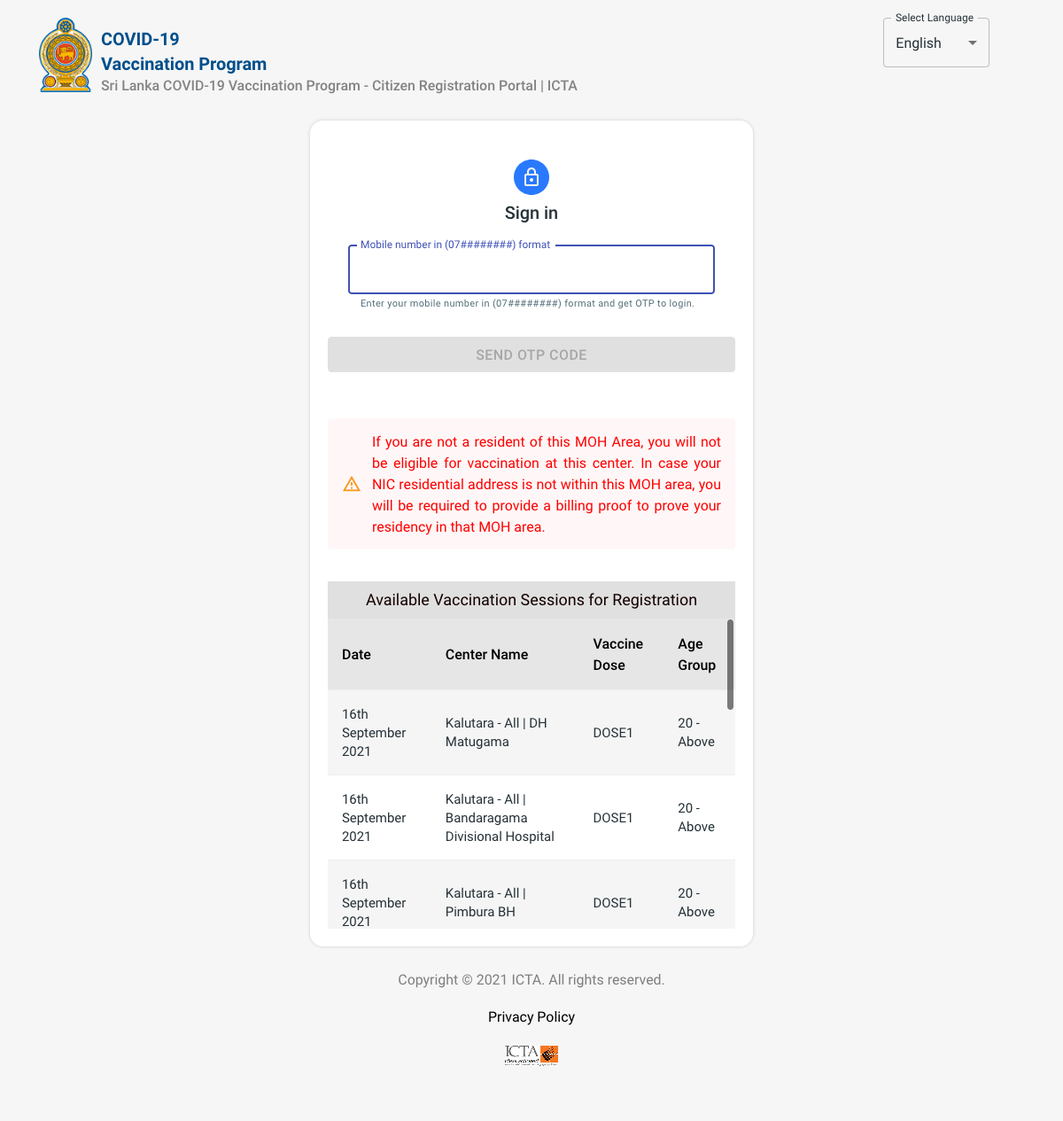
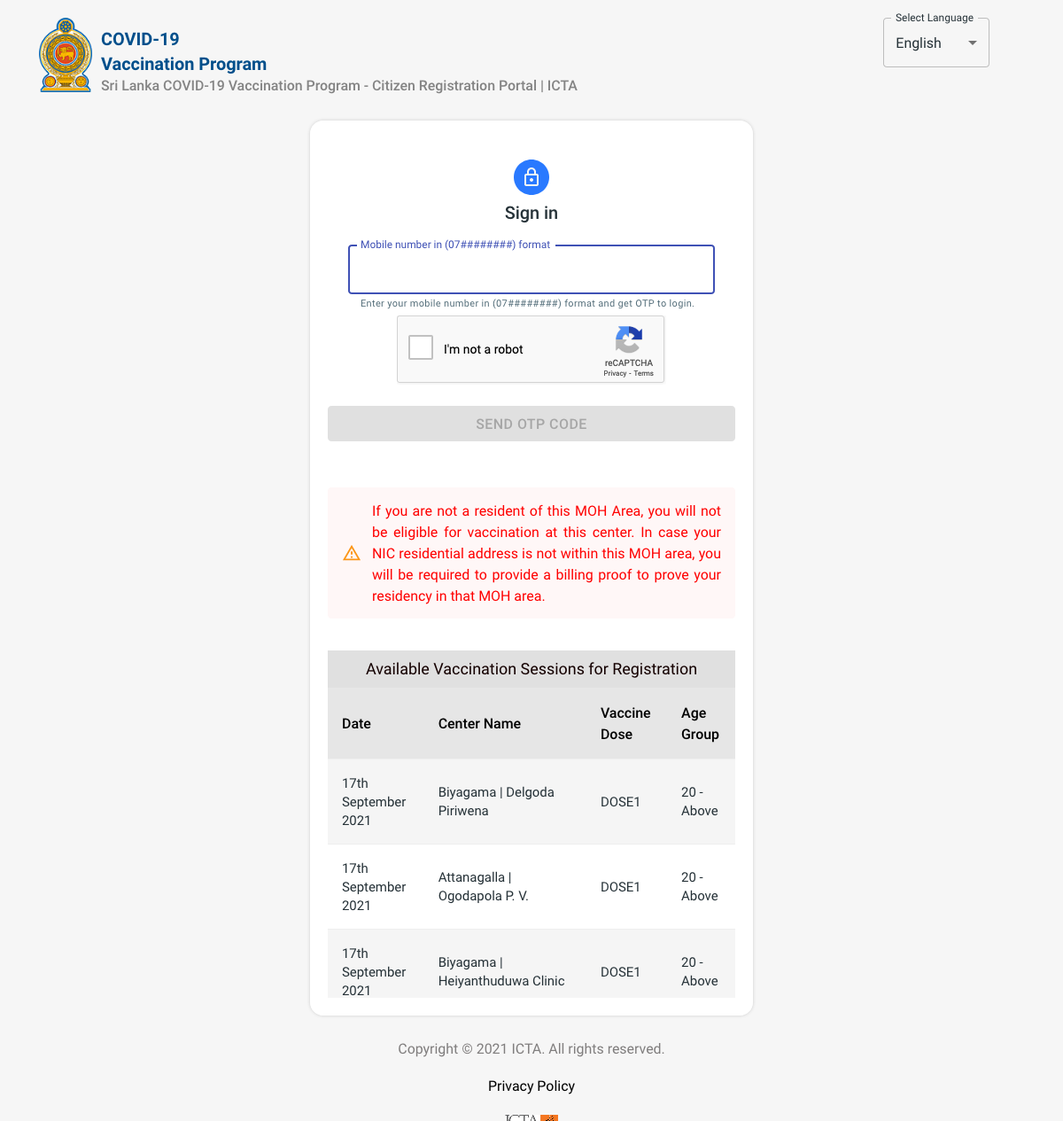
Added local_workflows/download-lk-vax-center.sh output

diff --git a/covid19_icta.latest.html b/covid19_icta.latest.html
@@ -2138,7 +2138,7 @@ body::backdrop {
 .jss39 {
   font-size: 15px;
 }
-</style></head><body><noscript>You need to enable JavaScript to run this app.</noscript><div id="root"><div><div class="jss1"><header class="MuiPaper-root MuiAppBar-root MuiAppBar-positionFixed MuiAppBar-colorPrimary jss2 mui-fixed MuiPaper-elevation4"><div class="MuiToolbar-root MuiToolbar-regular MuiToolbar-gutters"><div class="MuiGrid-root MuiGrid-container MuiGrid-spacing-xs-4 MuiGrid-justify-xs-center"><div class="MuiGrid-root MuiGrid-item MuiGrid-grid-xs-12 MuiGrid-grid-sm-10 MuiGrid-grid-md-10 MuiGrid-grid-lg-10"><div class="jss5"><a href="/registration-list"><img class="jss4" alt="Logo" src="/images/logos/moh-logo-2.png"></a><div class="jss7"><h3 class="MuiTypography-root jss6 MuiTypography-h3">COVID-19</h3><h3 class="MuiTypography-root jss6 MuiTypography-h3">Vaccination Program</h3><h2 class="MuiTypography-root jss8 MuiTypography-h5" inline="true">Sri Lanka COVID-19 Vaccination Program - Citizen Registration Portal | ICTA</h2></div><br></div></div><div class="MuiGrid-root MuiGrid-item MuiGrid-grid-xs-12 MuiGrid-grid-sm-2 MuiGrid-grid-md-2 MuiGrid-grid-lg-2"><div class="jss10"><div><div class="MuiFormControl-root"><label class="MuiFormLabel-root MuiInputLabel-root MuiInputLabel-formControl MuiInputLabel-animated MuiInputLabel-shrink MuiInputLabel-outlined MuiFormLabel-filled" data-shrink="true" id="demo-simple-select-outlined-label">Select Language</label><div class="MuiInputBase-root MuiOutlinedInput-root jss9 MuiInputBase-formControl"><div class="MuiSelect-root MuiSelect-select MuiSelect-selectMenu MuiSelect-outlined MuiInputBase-input MuiOutlinedInput-input" tabindex="0" role="button" aria-haspopup="listbox" aria-labelledby="demo-simple-select-outlined-label demo-simple-select-outlined" id="demo-simple-select-outlined">English</div><input aria-hidden="true" tabindex="-1" class="MuiSelect-nativeInput" value="english"><svg class="MuiSvgIcon-root MuiSelect-icon MuiSelect-iconOutlined" focusable="false" viewBox="0 0 24 24" aria-hidden="true"><path d="M7 10l5 5 5-5z"></path></svg><fieldset aria-hidden="true" class="jss12 MuiOutlinedInput-notchedOutline"><legend class="jss14 jss15"><span>Select Language</span></legend></fieldset></div></div></div><div></div></div></div></div><div class="jss3"></div></div></header><main><div class="jss26"><main class="MuiContainer-root jss16 MuiContainer-maxWidthXs" style="max-width: 500px;"><div class="jss17"><div class="MuiAvatar-root MuiAvatar-circle jss18 MuiAvatar-colorDefault"><svg class="MuiSvgIcon-root" focusable="false" viewBox="0 0 24 24" aria-hidden="true"><path d="M18 8h-1V6c0-2.76-2.24-5-5-5S7 3.24 7 6v2H6c-1.1 0-2 .9-2 2v10c0 1.1.9 2 2 2h12c1.1 0 2-.9 2-2V10c0-1.1-.9-2-2-2zM9 6c0-1.66 1.34-3 3-3s3 1.34 3 3v2H9V6zm9 14H6V10h12v10zm-6-3c1.1 0 2-.9 2-2s-.9-2-2-2-2 .9-2 2 .9 2 2 2z"></path></svg></div><h1 class="MuiTypography-root MuiTypography-h4">Sign in</h1><div><form class="jss19" novalidate=""><div class="MuiFormControl-root MuiTextField-root MuiFormControl-marginNormal MuiFormControl-fullWidth" style="margin-left: 23px; width: 90%;"><label class="MuiFormLabel-root MuiInputLabel-root MuiInputLabel-formControl MuiInputLabel-animated MuiInputLabel-shrink MuiInputLabel-outlined Mui-focused Mui-focused" data-shrink="true" for="mobile" id="mobile-label">Mobile number in (07########) format</label><div class="MuiInputBase-root MuiOutlinedInput-root MuiInputBase-fullWidth Mui-focused Mui-focused MuiInputBase-formControl"><input aria-invalid="false" aria-describedby="mobile-helper-text" id="mobile" name="mobile" type="text" class="MuiInputBase-input MuiOutlinedInput-input" value=""><fieldset aria-hidden="true" class="jss12 MuiOutlinedInput-notchedOutline"><legend class="jss14 jss15"><span>Mobile number in (07########) format</span></legend></fieldset></div><p class="MuiFormHelperText-root MuiFormHelperText-contained Mui-focused" id="mobile-helper-text">Enter your mobile number in (07########) format and get OTP to login.</p></div><div class="jss25"><div style="display: inline-block;"><div><div style="width: 304px; height: 78px;"><div><iframe title="reCAPTCHA" src="https://www.google.com/recaptcha/api2/anchor?ar=1&amp;k=6LdsxeMaAAAAAD2JY7XKqoLcwbx5xUzzpFbQt9mz&amp;co=aHR0cHM6Ly92YWNjaW5lLmNvdmlkMTkuZ292LmxrOjQ0Mw..&amp;hl=en&amp;type=image&amp;v=tftmXwdbgCvrXiHxr5HGbIaL&amp;theme=light&amp;size=normal&amp;badge=bottomright&amp;cb=u222yf2rr4yv" role="presentation" name="a-nupudynpldlr" scrolling="no" sandbox="allow-forms allow-popups allow-same-origin allow-scripts allow-top-navigation allow-modals allow-popups-to-escape-sandbox allow-storage-access-by-user-activation" width="304" height="78" frameborder="0"></iframe></div><textarea id="g-recaptcha-response" name="g-recaptcha-response" class="g-recaptcha-response" style="width: 250px; height: 40px; border: 1px solid rgb(193, 193, 193); margin: 10px 25px; padding: 0px; resize: none; display: none;"></textarea></div><iframe style="display: none;"></iframe></div></div></div><button class="MuiButtonBase-root MuiButton-root MuiButton-contained jss20 MuiButton-containedPrimary Mui-disabled MuiButton-fullWidth Mui-disabled" tabindex="-1" type="submit" disabled=""><span class="MuiButton-label">Send OTP Code</span></button></form><br><br><div class="MuiGrid-root MuiGrid-container MuiGrid-spacing-xs-2"><div class="MuiGrid-root MuiGrid-item MuiGrid-grid-xs-12 MuiGrid-grid-sm-12"><div class="MuiPaper-root MuiAlert-root MuiAlert-standardWarning jss28 MuiPaper-elevation0" role="alert"><div class="MuiAlert-icon"><svg class="MuiSvgIcon-root MuiSvgIcon-fontSizeInherit" focusable="false" viewBox="0 0 24 24" aria-hidden="true"><path d="M12 5.99L19.53 19H4.47L12 5.99M12 2L1 21h22L12 2zm1 14h-2v2h2v-2zm0-6h-2v4h2v-4z"></path></svg></div><div class="MuiAlert-message">If you are not a resident of this MOH Area, you will not be eligible for vaccination at this center. In case your NIC residential address is not within this MOH area, you will be required to provide a billing proof to prove your residency in that MOH area.</div></div></div></div><br><br><div class="jss23"> Available Vaccination Sessions for Registration</div><div class="jss22" style="max-height: 100000px;"><div class="MuiTableContainer-root"><table class="MuiTable-root" aria-label="customized table"><thead class="MuiTableHead-root"><tr class="MuiTableRow-root MuiTableRow-head"><th class="MuiTableCell-root MuiTableCell-head jss38" scope="col">Date</th><th class="MuiTableCell-root MuiTableCell-head jss38" scope="col">Center Name</th><th class="MuiTableCell-root MuiTableCell-head jss38" scope="col">Vaccine Dose</th><th class="MuiTableCell-root MuiTableCell-head jss38" scope="col">Age Group</th></tr></thead><tbody class="MuiTableBody-root"><tr class="MuiTableRow-root jss40"><td class="MuiTableCell-root MuiTableCell-body jss39">16th September 2021</td><td class="MuiTableCell-root MuiTableCell-body jss39">Kalutara - All | DH Matugama</td><td class="MuiTableCell-root MuiTableCell-body jss39">DOSE1</td><td class="MuiTableCell-root MuiTableCell-body jss39">20 - Above</td></tr><tr class="MuiTableRow-root jss40"><td class="MuiTableCell-root MuiTableCell-body jss39">16th September 2021</td><td class="MuiTableCell-root MuiTableCell-body jss39">Kalutara - All | Bandaragama Divisional Hospital</td><td class="MuiTableCell-root MuiTableCell-body jss39">DOSE1</td><td class="MuiTableCell-root MuiTableCell-body jss39">20 - Above</td></tr><tr class="MuiTableRow-root jss40"><td class="MuiTableCell-root MuiTableCell-body jss39">16th September 2021</td><td class="MuiTableCell-root MuiTableCell-body jss39">Kalutara - All | Pimbura BH</td><td class="MuiTableCell-root MuiTableCell-body jss39">DOSE1</td><td class="MuiTableCell-root MuiTableCell-body jss39">20 - Above</td></tr><tr class="MuiTableRow-root jss40"><td class="MuiTableCell-root MuiTableCell-body jss39">16th September 2021</td><td class="MuiTableCell-root MuiTableCell-body jss39">Kalutara - All | Ingiriya DH</td><td class="MuiTableCell-root MuiTableCell-body jss39">DOSE1</td><td class="MuiTableCell-root MuiTableCell-body jss39">20 - Above</td></tr><tr class="MuiTableRow-root jss40"><td class="MuiTableCell-root MuiTableCell-body jss39">16th September 2021</td><td class="MuiTableCell-root MuiTableCell-body jss39">Mathugama | Katugahahena DH</td><td class="MuiTableCell-root MuiTableCell-body jss39">DOSE1</td><td class="MuiTableCell-root MuiTableCell-body jss39">20 - Above</td></tr><tr class="MuiTableRow-root jss40"><td class="MuiTableCell-root MuiTableCell-body jss39">17th September 2021</td><td class="MuiTableCell-root MuiTableCell-body jss39">Kalutara - All | DH Matugama</td><td class="MuiTableCell-root MuiTableCell-body jss39">DOSE1</td><td class="MuiTableCell-root MuiTableCell-body jss39">20 - Above</td></tr><tr class="MuiTableRow-root jss40"><td class="MuiTableCell-root MuiTableCell-body jss39">17th September 2021</td><td class="MuiTableCell-root MuiTableCell-body jss39">Kalutara - All | Bandaragama Divisional Hospital</td><td class="MuiTableCell-root MuiTableCell-body jss39">DOSE1</td><td class="MuiTableCell-root MuiTableCell-body jss39">20 - Above</td></tr><tr class="MuiTableRow-root jss40"><td class="MuiTableCell-root MuiTableCell-body jss39">17th September 2021</td><td class="MuiTableCell-root MuiTableCell-body jss39">Kalutara - All | Pimbura BH</td><td class="MuiTableCell-root MuiTableCell-body jss39">DOSE1</td><td class="MuiTableCell-root MuiTableCell-body jss39">20 - Above</td></tr><tr class="MuiTableRow-root jss40"><td class="MuiTableCell-root MuiTableCell-body jss39">17th September 2021</td><td class="MuiTableCell-root MuiTableCell-body jss39">Kalutara - All | Ingiriya DH</td><td class="MuiTableCell-root MuiTableCell-body jss39">DOSE1</td><td class="MuiTableCell-root MuiTableCell-body jss39">20 - Above</td></tr><tr class="MuiTableRow-root jss40"><td class="MuiTableCell-root MuiTableCell-body jss39">17th September 2021</td><td class="MuiTableCell-root MuiTableCell-body jss39">Mathugama | Katugahahena DH</td><td class="MuiTableCell-root MuiTableCell-body jss39">DOSE1</td><td class="MuiTableCell-root MuiTableCell-body jss39">20 - Above</td></tr></tbody></table></div></div></div></div></main></div><div class="jss29"><div class="jss30"><div class="MuiGrid-root MuiGrid-container MuiGrid-spacing-xs-3 MuiGrid-align-items-xs-center MuiGrid-justify-xs-center"><div class="MuiGrid-root jss36 MuiGrid-item MuiGrid-grid-xs-12 MuiGrid-grid-sm-12"><div class="jss37">Copyright © 2021 <a class="MuiTypography-root MuiLink-root MuiLink-underlineHover jss37 MuiTypography-colorPrimary">ICTA</a>. All rights reserved. </div></div><div class="MuiGrid-root jss36 MuiGrid-item MuiGrid-grid-xs-12 MuiGrid-grid-sm-12"><a class="MuiTypography-root MuiLink-root MuiLink-underlineHover jss35 MuiTypography-colorPrimary">   Privacy Policy</a></div><div class="MuiGrid-root jss36 MuiGrid-item MuiGrid-grid-xs-12 MuiGrid-grid-sm-12"><img class="jss32" alt="Logo" src="/images/logos/icta-full-logo.png"></div></div></div></div></main></div></div></div><script>!function(e){function t(t){for(var n,u,a=t[0],c=t[1],l=t[2],f=0,s=[];f<a.length;f++)u=a[f],Object.prototype.hasOwnProperty.call(o,u)&&o[u]&&s.push(o[u][0]),o[u]=0;for(n in c)Object.prototype.hasOwnProperty.call(c,n)&&(e[n]=c[n]);for(p&&p(t);s.length;)s.shift()();return i.push.apply(i,l||[]),r()}function r(){for(var e,t=0;t<i.length;t++){for(var r=i[t],n=!0,a=1;a<r.length;a++){var c=r[a];0!==o[c]&&(n=!1)}n&&(i.splice(t--,1),e=u(u.s=r[0]))}return e}var n={},o={1:0},i=[];function u(t){if(n[t])return n[t].exports;var r=n[t]={i:t,l:!1,exports:{}};return e[t].call(r.exports,r,r.exports,u),r.l=!0,r.exports}u.m=e,u.c=n,u.d=function(e,t,r){u.o(e,t)||Object.defineProperty(e,t,{enumerable:!0,get:r})},u.r=function(e){"undefined"!=typeof Symbol&&Symbol.toStringTag&&Object.defineProperty(e,Symbol.toStringTag,{value:"Module"}),Object.defineProperty(e,"__esModule",{value:!0})},u.t=function(e,t){if(1&t&&(e=u(e)),8&t)return e;if(4&t&&"object"==typeof e&&e&&e.__esModule)return e;var r=Object.create(null);if(u.r(r),Object.defineProperty(r,"default",{enumerable:!0,value:e}),2&t&&"string"!=typeof e)for(var n in e)u.d(r,n,function(t){return e[t]}.bind(null,n));return r},u.n=function(e){var t=e&&e.__esModule?function(){return e.default}:function(){return e};return u.d(t,"a",t),t},u.o=function(e,t){return Object.prototype.hasOwnProperty.call(e,t)},u.p="/";var a=this["webpackJsonpicta-covid-vaccination-citizen-portal"]=this["webpackJsonpicta-covid-vaccination-citizen-portal"]||[],c=a.push.bind(a);a.push=t,a=a.slice();for(var l=0;l<a.length;l++)t(a[l]);var p=c;r()}([])</script><script src="/static/js/2.8442ddce.chunk.js"></script><script src="/static/js/main.94c42b61.chunk.js"></script>
+</style></head><body><noscript>You need to enable JavaScript to run this app.</noscript><div id="root"><div><div class="jss1"><header class="MuiPaper-root MuiAppBar-root MuiAppBar-positionFixed MuiAppBar-colorPrimary jss2 mui-fixed MuiPaper-elevation4"><div class="MuiToolbar-root MuiToolbar-regular MuiToolbar-gutters"><div class="MuiGrid-root MuiGrid-container MuiGrid-spacing-xs-4 MuiGrid-justify-xs-center"><div class="MuiGrid-root MuiGrid-item MuiGrid-grid-xs-12 MuiGrid-grid-sm-10 MuiGrid-grid-md-10 MuiGrid-grid-lg-10"><div class="jss5"><a href="/registration-list"><img class="jss4" alt="Logo" src="/images/logos/moh-logo-2.png"></a><div class="jss7"><h3 class="MuiTypography-root jss6 MuiTypography-h3">COVID-19</h3><h3 class="MuiTypography-root jss6 MuiTypography-h3">Vaccination Program</h3><h2 class="MuiTypography-root jss8 MuiTypography-h5" inline="true">Sri Lanka COVID-19 Vaccination Program - Citizen Registration Portal | ICTA</h2></div><br></div></div><div class="MuiGrid-root MuiGrid-item MuiGrid-grid-xs-12 MuiGrid-grid-sm-2 MuiGrid-grid-md-2 MuiGrid-grid-lg-2"><div class="jss10"><div><div class="MuiFormControl-root"><label class="MuiFormLabel-root MuiInputLabel-root MuiInputLabel-formControl MuiInputLabel-animated MuiInputLabel-shrink MuiInputLabel-outlined MuiFormLabel-filled" data-shrink="true" id="demo-simple-select-outlined-label">Select Language</label><div class="MuiInputBase-root MuiOutlinedInput-root jss9 MuiInputBase-formControl"><div class="MuiSelect-root MuiSelect-select MuiSelect-selectMenu MuiSelect-outlined MuiInputBase-input MuiOutlinedInput-input" tabindex="0" role="button" aria-haspopup="listbox" aria-labelledby="demo-simple-select-outlined-label demo-simple-select-outlined" id="demo-simple-select-outlined">English</div><input aria-hidden="true" tabindex="-1" class="MuiSelect-nativeInput" value="english"><svg class="MuiSvgIcon-root MuiSelect-icon MuiSelect-iconOutlined" focusable="false" viewBox="0 0 24 24" aria-hidden="true"><path d="M7 10l5 5 5-5z"></path></svg><fieldset aria-hidden="true" class="jss12 MuiOutlinedInput-notchedOutline"><legend class="jss14 jss15"><span>Select Language</span></legend></fieldset></div></div></div><div></div></div></div></div><div class="jss3"></div></div></header><main><div class="jss26"><main class="MuiContainer-root jss16 MuiContainer-maxWidthXs" style="max-width: 500px;"><div class="jss17"><div class="MuiAvatar-root MuiAvatar-circle jss18 MuiAvatar-colorDefault"><svg class="MuiSvgIcon-root" focusable="false" viewBox="0 0 24 24" aria-hidden="true"><path d="M18 8h-1V6c0-2.76-2.24-5-5-5S7 3.24 7 6v2H6c-1.1 0-2 .9-2 2v10c0 1.1.9 2 2 2h12c1.1 0 2-.9 2-2V10c0-1.1-.9-2-2-2zM9 6c0-1.66 1.34-3 3-3s3 1.34 3 3v2H9V6zm9 14H6V10h12v10zm-6-3c1.1 0 2-.9 2-2s-.9-2-2-2-2 .9-2 2 .9 2 2 2z"></path></svg></div><h1 class="MuiTypography-root MuiTypography-h4">Sign in</h1><div><form class="jss19" novalidate=""><div class="MuiFormControl-root MuiTextField-root MuiFormControl-marginNormal MuiFormControl-fullWidth" style="margin-left: 23px; width: 90%;"><label class="MuiFormLabel-root MuiInputLabel-root MuiInputLabel-formControl MuiInputLabel-animated MuiInputLabel-shrink MuiInputLabel-outlined Mui-focused Mui-focused" data-shrink="true" for="mobile" id="mobile-label">Mobile number in (07########) format</label><div class="MuiInputBase-root MuiOutlinedInput-root MuiInputBase-fullWidth Mui-focused Mui-focused MuiInputBase-formControl"><input aria-invalid="false" aria-describedby="mobile-helper-text" id="mobile" name="mobile" type="text" class="MuiInputBase-input MuiOutlinedInput-input" value=""><fieldset aria-hidden="true" class="jss12 MuiOutlinedInput-notchedOutline"><legend class="jss14 jss15"><span>Mobile number in (07########) format</span></legend></fieldset></div><p class="MuiFormHelperText-root MuiFormHelperText-contained Mui-focused" id="mobile-helper-text">Enter your mobile number in (07########) format and get OTP to login.</p></div><div class="jss25"><div style="display: inline-block;"><div><div style="width: 304px; height: 78px;"><div><iframe title="reCAPTCHA" src="https://www.google.com/recaptcha/api2/anchor?ar=1&amp;k=6LdsxeMaAAAAAD2JY7XKqoLcwbx5xUzzpFbQt9mz&amp;co=aHR0cHM6Ly92YWNjaW5lLmNvdmlkMTkuZ292LmxrOjQ0Mw..&amp;hl=en&amp;type=image&amp;v=tftmXwdbgCvrXiHxr5HGbIaL&amp;theme=light&amp;size=normal&amp;badge=bottomright&amp;cb=g58s4huyfiza" role="presentation" name="a-h8mo4ohwhj49" scrolling="no" sandbox="allow-forms allow-popups allow-same-origin allow-scripts allow-top-navigation allow-modals allow-popups-to-escape-sandbox allow-storage-access-by-user-activation" width="304" height="78" frameborder="0"></iframe></div><textarea id="g-recaptcha-response" name="g-recaptcha-response" class="g-recaptcha-response" style="width: 250px; height: 40px; border: 1px solid rgb(193, 193, 193); margin: 10px 25px; padding: 0px; resize: none; display: none;"></textarea></div><iframe style="display: none;"></iframe></div></div></div><button class="MuiButtonBase-root MuiButton-root MuiButton-contained jss20 MuiButton-containedPrimary Mui-disabled MuiButton-fullWidth Mui-disabled" tabindex="-1" type="submit" disabled=""><span class="MuiButton-label">Send OTP Code</span></button></form><br><br><div class="MuiGrid-root MuiGrid-container MuiGrid-spacing-xs-2"><div class="MuiGrid-root MuiGrid-item MuiGrid-grid-xs-12 MuiGrid-grid-sm-12"><div class="MuiPaper-root MuiAlert-root MuiAlert-standardWarning jss28 MuiPaper-elevation0" role="alert"><div class="MuiAlert-icon"><svg class="MuiSvgIcon-root MuiSvgIcon-fontSizeInherit" focusable="false" viewBox="0 0 24 24" aria-hidden="true"><path d="M12 5.99L19.53 19H4.47L12 5.99M12 2L1 21h22L12 2zm1 14h-2v2h2v-2zm0-6h-2v4h2v-4z"></path></svg></div><div class="MuiAlert-message">If you are not a resident of this MOH Area, you will not be eligible for vaccination at this center. In case your NIC residential address is not within this MOH area, you will be required to provide a billing proof to prove your residency in that MOH area.</div></div></div></div><br><br><div class="jss23"> Available Vaccination Sessions for Registration</div><div class="jss22" style="max-height: 100000px;"><div class="MuiTableContainer-root"><table class="MuiTable-root" aria-label="customized table"><thead class="MuiTableHead-root"><tr class="MuiTableRow-root MuiTableRow-head"><th class="MuiTableCell-root MuiTableCell-head jss38" scope="col">Date</th><th class="MuiTableCell-root MuiTableCell-head jss38" scope="col">Center Name</th><th class="MuiTableCell-root MuiTableCell-head jss38" scope="col">Vaccine Dose</th><th class="MuiTableCell-root MuiTableCell-head jss38" scope="col">Age Group</th></tr></thead><tbody class="MuiTableBody-root"><tr class="MuiTableRow-root jss40"><td class="MuiTableCell-root MuiTableCell-body jss39">17th September 2021</td><td class="MuiTableCell-root MuiTableCell-body jss39">Biyagama | Delgoda Piriwena</td><td class="MuiTableCell-root MuiTableCell-body jss39">DOSE1</td><td class="MuiTableCell-root MuiTableCell-body jss39">20 - Above</td></tr><tr class="MuiTableRow-root jss40"><td class="MuiTableCell-root MuiTableCell-body jss39">17th September 2021</td><td class="MuiTableCell-root MuiTableCell-body jss39">Attanagalla | Ogodapola P. V.</td><td class="MuiTableCell-root MuiTableCell-body jss39">DOSE1</td><td class="MuiTableCell-root MuiTableCell-body jss39">20 - Above</td></tr><tr class="MuiTableRow-root jss40"><td class="MuiTableCell-root MuiTableCell-body jss39">17th September 2021</td><td class="MuiTableCell-root MuiTableCell-body jss39">Biyagama | Heiyanthuduwa Clinic</td><td class="MuiTableCell-root MuiTableCell-body jss39">DOSE1</td><td class="MuiTableCell-root MuiTableCell-body jss39">20 - Above</td></tr><tr class="MuiTableRow-root jss40"><td class="MuiTableCell-root MuiTableCell-body jss39">17th September 2021</td><td class="MuiTableCell-root MuiTableCell-body jss39">Ragama | Ragama MOH </td><td class="MuiTableCell-root MuiTableCell-body jss39">DOSE1</td><td class="MuiTableCell-root MuiTableCell-body jss39">20 - Above</td></tr><tr class="MuiTableRow-root jss40"><td class="MuiTableCell-root MuiTableCell-body jss39">17th September 2021</td><td class="MuiTableCell-root MuiTableCell-body jss39">Ja-ela | UC Clinic</td><td class="MuiTableCell-root MuiTableCell-body jss39">DOSE1</td><td class="MuiTableCell-root MuiTableCell-body jss39">20 - Above</td></tr><tr class="MuiTableRow-root jss40"><td class="MuiTableCell-root MuiTableCell-body jss39">17th September 2021</td><td class="MuiTableCell-root MuiTableCell-body jss39">Kalutara - All | DH Matugama</td><td class="MuiTableCell-root MuiTableCell-body jss39">DOSE1</td><td class="MuiTableCell-root MuiTableCell-body jss39">20 - Above</td></tr><tr class="MuiTableRow-root jss40"><td class="MuiTableCell-root MuiTableCell-body jss39">17th September 2021</td><td class="MuiTableCell-root MuiTableCell-body jss39">Ja-ela | NERD Centre Jaela</td><td class="MuiTableCell-root MuiTableCell-body jss39">DOSE1</td><td class="MuiTableCell-root MuiTableCell-body jss39">20 - Above</td></tr><tr class="MuiTableRow-root jss40"><td class="MuiTableCell-root MuiTableCell-body jss39">17th September 2021</td><td class="MuiTableCell-root MuiTableCell-body jss39">Minuwangoda | Naiwala  Temple</td><td class="MuiTableCell-root MuiTableCell-body jss39">DOSE1</td><td class="MuiTableCell-root MuiTableCell-body jss39">20 - Above</td></tr><tr class="MuiTableRow-root jss40"><td class="MuiTableCell-root MuiTableCell-body jss39">17th September 2021</td><td class="MuiTableCell-root MuiTableCell-body jss39">Minuwangoda |  Polwatta temple</td><td class="MuiTableCell-root MuiTableCell-body jss39">DOSE1</td><td class="MuiTableCell-root MuiTableCell-body jss39">20 - Above</td></tr><tr class="MuiTableRow-root jss40"><td class="MuiTableCell-root MuiTableCell-body jss39">17th September 2021</td><td class="MuiTableCell-root MuiTableCell-body jss39">Minuwangoda | Minuwangoda MOH office | Sinopharm</td><td class="MuiTableCell-root MuiTableCell-body jss39">DOSE2</td><td class="MuiTableCell-root MuiTableCell-body jss39">20 - Above</td></tr><tr class="MuiTableRow-root jss40"><td class="MuiTableCell-root MuiTableCell-body jss39">17th September 2021</td><td class="MuiTableCell-root MuiTableCell-body jss39">Attanagalla | Attanagalla temple</td><td class="MuiTableCell-root MuiTableCell-body jss39">DOSE1</td><td class="MuiTableCell-root MuiTableCell-body jss39">20 - Above</td></tr><tr class="MuiTableRow-root jss40"><td class="MuiTableCell-root MuiTableCell-body jss39">17th September 2021</td><td class="MuiTableCell-root MuiTableCell-body jss39">Katana | Kebellagashandiya Widyaloka maha viharaya</td><td class="MuiTableCell-root MuiTableCell-body jss39">DOSE1</td><td class="MuiTableCell-root MuiTableCell-body jss39">20 - Above</td></tr><tr class="MuiTableRow-root jss40"><td class="MuiTableCell-root MuiTableCell-body jss39">17th September 2021</td><td class="MuiTableCell-root MuiTableCell-body jss39">Divulapitiya | Kithulwala Kumarathunga Vidyalaya </td><td class="MuiTableCell-root MuiTableCell-body jss39">DOSE1</td><td class="MuiTableCell-root MuiTableCell-body jss39">20 - Above</td></tr><tr class="MuiTableRow-root jss40"><td class="MuiTableCell-root MuiTableCell-body jss39">17th September 2021</td><td class="MuiTableCell-root MuiTableCell-body jss39">Divulapitiya | Dorowwa Maha Vidyalaya </td><td class="MuiTableCell-root MuiTableCell-body jss39">DOSE1</td><td class="MuiTableCell-root MuiTableCell-body jss39">20 - Above</td></tr><tr class="MuiTableRow-root jss40"><td class="MuiTableCell-root MuiTableCell-body jss39">17th September 2021</td><td class="MuiTableCell-root MuiTableCell-body jss39">Divulapitiya | Sayakkaramulla Walukaramaya</td><td class="MuiTableCell-root MuiTableCell-body jss39">DOSE1</td><td class="MuiTableCell-root MuiTableCell-body jss39">20 - Above</td></tr><tr class="MuiTableRow-root jss40"><td class="MuiTableCell-root MuiTableCell-body jss39">17th September 2021</td><td class="MuiTableCell-root MuiTableCell-body jss39">Divulapitiya | Madithiyawala Vidyalaya</td><td class="MuiTableCell-root MuiTableCell-body jss39">DOSE1</td><td class="MuiTableCell-root MuiTableCell-body jss39">20 - Above</td></tr><tr class="MuiTableRow-root jss40"><td class="MuiTableCell-root MuiTableCell-body jss39">17th September 2021</td><td class="MuiTableCell-root MuiTableCell-body jss39">Wattala | Welisara Nawaloka ground</td><td class="MuiTableCell-root MuiTableCell-body jss39">DOSE1</td><td class="MuiTableCell-root MuiTableCell-body jss39">20 - Above</td></tr><tr class="MuiTableRow-root jss40"><td class="MuiTableCell-root MuiTableCell-body jss39">17th September 2021</td><td class="MuiTableCell-root MuiTableCell-body jss39">Wattala | Vidyaloka vidyalaya</td><td class="MuiTableCell-root MuiTableCell-body jss39">DOSE1</td><td class="MuiTableCell-root MuiTableCell-body jss39">20 - Above</td></tr><tr class="MuiTableRow-root jss40"><td class="MuiTableCell-root MuiTableCell-body jss39">17th September 2021</td><td class="MuiTableCell-root MuiTableCell-body jss39">Kalutara - All | Bandaragama Divisional Hospital</td><td class="MuiTableCell-root MuiTableCell-body jss39">DOSE1</td><td class="MuiTableCell-root MuiTableCell-body jss39">20 - Above</td></tr><tr class="MuiTableRow-root jss40"><td class="MuiTableCell-root MuiTableCell-body jss39">17th September 2021</td><td class="MuiTableCell-root MuiTableCell-body jss39">Kalutara - All | Pimbura BH</td><td class="MuiTableCell-root MuiTableCell-body jss39">DOSE1</td><td class="MuiTableCell-root MuiTableCell-body jss39">20 - Above</td></tr><tr class="MuiTableRow-root jss40"><td class="MuiTableCell-root MuiTableCell-body jss39">17th September 2021</td><td class="MuiTableCell-root MuiTableCell-body jss39">Kalutara - All | Ingiriya DH</td><td class="MuiTableCell-root MuiTableCell-body jss39">DOSE1</td><td class="MuiTableCell-root MuiTableCell-body jss39">20 - Above</td></tr><tr class="MuiTableRow-root jss40"><td class="MuiTableCell-root MuiTableCell-body jss39">17th September 2021</td><td class="MuiTableCell-root MuiTableCell-body jss39">Mathugama | Katugahahena DH</td><td class="MuiTableCell-root MuiTableCell-body jss39">DOSE1</td><td class="MuiTableCell-root MuiTableCell-body jss39">20 - Above</td></tr><tr class="MuiTableRow-root jss40"><td class="MuiTableCell-root MuiTableCell-body jss39">17th September 2021</td><td class="MuiTableCell-root MuiTableCell-body jss39">Dompe | Dompe MOH Office</td><td class="MuiTableCell-root MuiTableCell-body jss39">DOSE1</td><td class="MuiTableCell-root MuiTableCell-body jss39">20 - Above</td></tr><tr class="MuiTableRow-root jss40"><td class="MuiTableCell-root MuiTableCell-body jss39">17th September 2021</td><td class="MuiTableCell-root MuiTableCell-body jss39">Seeduwa | Bodhirathanaramaya temple katunayake</td><td class="MuiTableCell-root MuiTableCell-body jss39">DOSE1</td><td class="MuiTableCell-root MuiTableCell-body jss39">20 - Above</td></tr><tr class="MuiTableRow-root jss40"><td class="MuiTableCell-root MuiTableCell-body jss39">17th September 2021</td><td class="MuiTableCell-root MuiTableCell-body jss39">Kelaniya | Hunupitiya Clinic</td><td class="MuiTableCell-root MuiTableCell-body jss39">DOSE1</td><td class="MuiTableCell-root MuiTableCell-body jss39">20 - Above</td></tr><tr class="MuiTableRow-root jss40"><td class="MuiTableCell-root MuiTableCell-body jss39">17th September 2021</td><td class="MuiTableCell-root MuiTableCell-body jss39">Gampaha | Kossinna temple</td><td class="MuiTableCell-root MuiTableCell-body jss39">DOSE1</td><td class="MuiTableCell-root MuiTableCell-body jss39">20 - Above</td></tr><tr class="MuiTableRow-root jss40"><td class="MuiTableCell-root MuiTableCell-body jss39">17th September 2021</td><td class="MuiTableCell-root MuiTableCell-body jss39">Gampaha | Mahena Prajasalawa</td><td class="MuiTableCell-root MuiTableCell-body jss39">DOSE1</td><td class="MuiTableCell-root MuiTableCell-body jss39">20 - Above</td></tr><tr class="MuiTableRow-root jss40"><td class="MuiTableCell-root MuiTableCell-body jss39">17th September 2021</td><td class="MuiTableCell-root MuiTableCell-body jss39">Gampaha | Akaravita Temple</td><td class="MuiTableCell-root MuiTableCell-body jss39">DOSE1</td><td class="MuiTableCell-root MuiTableCell-body jss39">20 - Above</td></tr><tr class="MuiTableRow-root jss40"><td class="MuiTableCell-root MuiTableCell-body jss39">17th September 2021</td><td class="MuiTableCell-root MuiTableCell-body jss39">Katana | MOH Office Demanhandiya</td><td class="MuiTableCell-root MuiTableCell-body jss39">DOSE1</td><td class="MuiTableCell-root MuiTableCell-body jss39">20 - Above</td></tr><tr class="MuiTableRow-root jss40"><td class="MuiTableCell-root MuiTableCell-body jss39">17th September 2021</td><td class="MuiTableCell-root MuiTableCell-body jss39">Divulapitiya | Katuwellegama M.V</td><td class="MuiTableCell-root MuiTableCell-body jss39">DOSE1</td><td class="MuiTableCell-root MuiTableCell-body jss39">20 - Above</td></tr><tr class="MuiTableRow-root jss40"><td class="MuiTableCell-root MuiTableCell-body jss39">17th September 2021</td><td class="MuiTableCell-root MuiTableCell-body jss39">Divulapitiya | Badalgama Fair</td><td class="MuiTableCell-root MuiTableCell-body jss39">DOSE1</td><td class="MuiTableCell-root MuiTableCell-body jss39">20 - Above</td></tr><tr class="MuiTableRow-root jss40"><td class="MuiTableCell-root MuiTableCell-body jss39">17th September 2021</td><td class="MuiTableCell-root MuiTableCell-body jss39">Negombo | Municipal council</td><td class="MuiTableCell-root MuiTableCell-body jss39">DOSE1</td><td class="MuiTableCell-root MuiTableCell-body jss39">20 - Above</td></tr><tr class="MuiTableRow-root jss40"><td class="MuiTableCell-root MuiTableCell-body jss39">17th September 2021</td><td class="MuiTableCell-root MuiTableCell-body jss39">Mirigama | Hakwadunna Temple</td><td class="MuiTableCell-root MuiTableCell-body jss39">DOSE1</td><td class="MuiTableCell-root MuiTableCell-body jss39">20 - Above</td></tr><tr class="MuiTableRow-root jss40"><td class="MuiTableCell-root MuiTableCell-body jss39">18th September 2021</td><td class="MuiTableCell-root MuiTableCell-body jss39">Gampaha | Naga piriwen viharaya Ambaraluwa</td><td class="MuiTableCell-root MuiTableCell-body jss39">DOSE1</td><td class="MuiTableCell-root MuiTableCell-body jss39">20 - Above</td></tr><tr class="MuiTableRow-root jss40"><td class="MuiTableCell-root MuiTableCell-body jss39">18th September 2021</td><td class="MuiTableCell-root MuiTableCell-body jss39">Katana | Nayanalokagama P.S.</td><td class="MuiTableCell-root MuiTableCell-body jss39">DOSE1</td><td class="MuiTableCell-root MuiTableCell-body jss39">20 - Above</td></tr><tr class="MuiTableRow-root jss40"><td class="MuiTableCell-root MuiTableCell-body jss39">18th September 2021</td><td class="MuiTableCell-root MuiTableCell-body jss39">Divulapitiya | Sayakkaramulla Walukaramaya</td><td class="MuiTableCell-root MuiTableCell-body jss39">DOSE1</td><td class="MuiTableCell-root MuiTableCell-body jss39">20 - Above</td></tr><tr class="MuiTableRow-root jss40"><td class="MuiTableCell-root MuiTableCell-body jss39">18th September 2021</td><td class="MuiTableCell-root MuiTableCell-body jss39">Divulapitiya | Aluthepola Temple </td><td class="MuiTableCell-root MuiTableCell-body jss39">DOSE1</td><td class="MuiTableCell-root MuiTableCell-body jss39">20 - Above</td></tr><tr class="MuiTableRow-root jss40"><td class="MuiTableCell-root MuiTableCell-body jss39">18th September 2021</td><td class="MuiTableCell-root MuiTableCell-body jss39">Divulapitiya | Pinnakale Priyadarshanramaya</td><td class="MuiTableCell-root MuiTableCell-body jss39">DOSE1</td><td class="MuiTableCell-root MuiTableCell-body jss39">20 - Above</td></tr><tr class="MuiTableRow-root jss40"><td class="MuiTableCell-root MuiTableCell-body jss39">18th September 2021</td><td class="MuiTableCell-root MuiTableCell-body jss39">Divulapitiya | Kudagammana Viharaya </td><td class="MuiTableCell-root MuiTableCell-body jss39">DOSE1</td><td class="MuiTableCell-root MuiTableCell-body jss39">20 - Above</td></tr><tr class="MuiTableRow-root jss40"><td class="MuiTableCell-root MuiTableCell-body jss39">18th September 2021</td><td class="MuiTableCell-root MuiTableCell-body jss39">Negombo | Wijerathnam Hindu Hall</td><td class="MuiTableCell-root MuiTableCell-body jss39">DOSE1</td><td class="MuiTableCell-root MuiTableCell-body jss39">20 - Above</td></tr><tr class="MuiTableRow-root jss40"><td class="MuiTableCell-root MuiTableCell-body jss39">18th September 2021</td><td class="MuiTableCell-root MuiTableCell-body jss39">Minuwangoda | Galloluwa Marliya function hall</td><td class="MuiTableCell-root MuiTableCell-body jss39">DOSE1</td><td class="MuiTableCell-root MuiTableCell-body jss39">20 - Above</td></tr><tr class="MuiTableRow-root jss40"><td class="MuiTableCell-root MuiTableCell-body jss39">18th September 2021</td><td class="MuiTableCell-root MuiTableCell-body jss39">Ja-ela | UC Clinic</td><td class="MuiTableCell-root MuiTableCell-body jss39">DOSE1</td><td class="MuiTableCell-root MuiTableCell-body jss39">20 - Above</td></tr><tr class="MuiTableRow-root jss40"><td class="MuiTableCell-root MuiTableCell-body jss39">18th September 2021</td><td class="MuiTableCell-root MuiTableCell-body jss39">Minuwangoda | Minuwangoda MOH office | Sinopharm</td><td class="MuiTableCell-root MuiTableCell-body jss39">DOSE2</td><td class="MuiTableCell-root MuiTableCell-body jss39">20 - Above</td></tr><tr class="MuiTableRow-root jss40"><td class="MuiTableCell-root MuiTableCell-body jss39">18th September 2021</td><td class="MuiTableCell-root MuiTableCell-body jss39">Biyagama | Gollummahara temple</td><td class="MuiTableCell-root MuiTableCell-body jss39">DOSE1</td><td class="MuiTableCell-root MuiTableCell-body jss39">20 - Above</td></tr><tr class="MuiTableRow-root jss40"><td class="MuiTableCell-root MuiTableCell-body jss39">18th September 2021</td><td class="MuiTableCell-root MuiTableCell-body jss39">Biyagama | Biyagama MOH Office</td><td class="MuiTableCell-root MuiTableCell-body jss39">DOSE1</td><td class="MuiTableCell-root MuiTableCell-body jss39">20 - Above</td></tr><tr class="MuiTableRow-root jss40"><td class="MuiTableCell-root MuiTableCell-body jss39">18th September 2021</td><td class="MuiTableCell-root MuiTableCell-body jss39">Attanagalla | Viddyananda Piriwena</td><td class="MuiTableCell-root MuiTableCell-body jss39">DOSE1</td><td class="MuiTableCell-root MuiTableCell-body jss39">20 - Above</td></tr><tr class="MuiTableRow-root jss40"><td class="MuiTableCell-root MuiTableCell-body jss39">18th September 2021</td><td class="MuiTableCell-root MuiTableCell-body jss39">Mirigama | Muddaragama CD</td><td class="MuiTableCell-root MuiTableCell-body jss39">DOSE1</td><td class="MuiTableCell-root MuiTableCell-body jss39">20 - Above</td></tr><tr class="MuiTableRow-root jss40"><td class="MuiTableCell-root MuiTableCell-body jss39">18th September 2021</td><td class="MuiTableCell-root MuiTableCell-body jss39">Negombo | Kadolkeke Church</td><td class="MuiTableCell-root MuiTableCell-body jss39">DOSE1</td><td class="MuiTableCell-root MuiTableCell-body jss39">20 - Above</td></tr><tr class="MuiTableRow-root jss40"><td class="MuiTableCell-root MuiTableCell-body jss39">18th September 2021</td><td class="MuiTableCell-root MuiTableCell-body jss39">Negombo | Municipal council</td><td class="MuiTableCell-root MuiTableCell-body jss39">DOSE1</td><td class="MuiTableCell-root MuiTableCell-body jss39">20 - Above</td></tr><tr class="MuiTableRow-root jss40"><td class="MuiTableCell-root MuiTableCell-body jss39">18th September 2021</td><td class="MuiTableCell-root MuiTableCell-body jss39">Divulapitiya | Dunagaha Ranasinghe M.V</td><td class="MuiTableCell-root MuiTableCell-body jss39">DOSE1</td><td class="MuiTableCell-root MuiTableCell-body jss39">20 - Above</td></tr><tr class="MuiTableRow-root jss40"><td class="MuiTableCell-root MuiTableCell-body jss39">18th September 2021</td><td class="MuiTableCell-root MuiTableCell-body jss39">Katana | MOH Office Demanhandiya</td><td class="MuiTableCell-root MuiTableCell-body jss39">DOSE1</td><td class="MuiTableCell-root MuiTableCell-body jss39">20 - Above</td></tr><tr class="MuiTableRow-root jss40"><td class="MuiTableCell-root MuiTableCell-body jss39">18th September 2021</td><td class="MuiTableCell-root MuiTableCell-body jss39">Kelaniya | Dalugama clinic</td><td class="MuiTableCell-root MuiTableCell-body jss39">DOSE1</td><td class="MuiTableCell-root MuiTableCell-body jss39">20 - Above</td></tr><tr class="MuiTableRow-root jss40"><td class="MuiTableCell-root MuiTableCell-body jss39">18th September 2021</td><td class="MuiTableCell-root MuiTableCell-body jss39">Seeduwa | Dewamottawa temple</td><td class="MuiTableCell-root MuiTableCell-body jss39">DOSE1</td><td class="MuiTableCell-root MuiTableCell-body jss39">20 - Above</td></tr><tr class="MuiTableRow-root jss40"><td class="MuiTableCell-root MuiTableCell-body jss39">18th September 2021</td><td class="MuiTableCell-root MuiTableCell-body jss39">Dompe | Dompe MOH Office</td><td class="MuiTableCell-root MuiTableCell-body jss39">DOSE1</td><td class="MuiTableCell-root MuiTableCell-body jss39">20 - Above</td></tr></tbody></table></div></div></div></div></main></div><div class="jss29"><div class="jss30"><div class="MuiGrid-root MuiGrid-container MuiGrid-spacing-xs-3 MuiGrid-align-items-xs-center MuiGrid-justify-xs-center"><div class="MuiGrid-root jss36 MuiGrid-item MuiGrid-grid-xs-12 MuiGrid-grid-sm-12"><div class="jss37">Copyright © 2021 <a class="MuiTypography-root MuiLink-root MuiLink-underlineHover jss37 MuiTypography-colorPrimary">ICTA</a>. All rights reserved. </div></div><div class="MuiGrid-root jss36 MuiGrid-item MuiGrid-grid-xs-12 MuiGrid-grid-sm-12"><a class="MuiTypography-root MuiLink-root MuiLink-underlineHover jss35 MuiTypography-colorPrimary">   Privacy Policy</a></div><div class="MuiGrid-root jss36 MuiGrid-item MuiGrid-grid-xs-12 MuiGrid-grid-sm-12"><img class="jss32" alt="Logo" src="/images/logos/icta-full-logo.png"></div></div></div></div></main></div></div></div><script>!function(e){function t(t){for(var n,u,a=t[0],c=t[1],l=t[2],f=0,s=[];f<a.length;f++)u=a[f],Object.prototype.hasOwnProperty.call(o,u)&&o[u]&&s.push(o[u][0]),o[u]=0;for(n in c)Object.prototype.hasOwnProperty.call(c,n)&&(e[n]=c[n]);for(p&&p(t);s.length;)s.shift()();return i.push.apply(i,l||[]),r()}function r(){for(var e,t=0;t<i.length;t++){for(var r=i[t],n=!0,a=1;a<r.length;a++){var c=r[a];0!==o[c]&&(n=!1)}n&&(i.splice(t--,1),e=u(u.s=r[0]))}return e}var n={},o={1:0},i=[];function u(t){if(n[t])return n[t].exports;var r=n[t]={i:t,l:!1,exports:{}};return e[t].call(r.exports,r,r.exports,u),r.l=!0,r.exports}u.m=e,u.c=n,u.d=function(e,t,r){u.o(e,t)||Object.defineProperty(e,t,{enumerable:!0,get:r})},u.r=function(e){"undefined"!=typeof Symbol&&Symbol.toStringTag&&Object.defineProperty(e,Symbol.toStringTag,{value:"Module"}),Object.defineProperty(e,"__esModule",{value:!0})},u.t=function(e,t){if(1&t&&(e=u(e)),8&t)return e;if(4&t&&"object"==typeof e&&e&&e.__esModule)return e;var r=Object.create(null);if(u.r(r),Object.defineProperty(r,"default",{enumerable:!0,value:e}),2&t&&"string"!=typeof e)for(var n in e)u.d(r,n,function(t){return e[t]}.bind(null,n));return r},u.n=function(e){var t=e&&e.__esModule?function(){return e.default}:function(){return e};return u.d(t,"a",t),t},u.o=function(e,t){return Object.prototype.hasOwnProperty.call(e,t)},u.p="/";var a=this["webpackJsonpicta-covid-vaccination-citizen-portal"]=this["webpackJsonpicta-covid-vaccination-citizen-portal"]||[],c=a.push.bind(a);a.push=t,a=a.slice();for(var l=0;l<a.length;l++)t(a[l]);var p=c;r()}([])</script><script src="/static/js/2.8442ddce.chunk.js"></script><script src="/static/js/main.94c42b61.chunk.js"></script>
 
 <!-- Global site tag (gtag.js) - Google Analytics -->
 <script async="" src="https://www.googletagmanager.com/gtag/js?id=G-HWCMNCWVEQ"></script>
@@ -2150,4 +2150,4 @@ body::backdrop {
 </script>
 
 	
-<script src="https://www.google.com/recaptcha/api.js?onload=onloadcallback&amp;render=explicit" async=""></script><div style="background-color: rgb(255, 255, 255); border: 1px solid rgb(204, 204, 204); box-shadow: rgba(0, 0, 0, 0.2) 2px 2px 3px; position: absolute; transition: visibility 0s linear 0.3s, opacity 0.3s linear 0s; opacity: 0; visibility: hidden; z-index: 2000000000; left: 0px; top: -10000px;"><div style="width: 100%; height: 100%; position: fixed; top: 0px; left: 0px; z-index: 2000000000; background-color: rgb(255, 255, 255); opacity: 0.05;"></div><div style="border: 11px solid transparent; width: 0px; height: 0px; position: absolute; pointer-events: none; margin-top: -11px; z-index: 2000000000;" class="g-recaptcha-bubble-arrow"></div><div style="border: 10px solid transparent; width: 0px; height: 0px; position: absolute; pointer-events: none; margin-top: -10px; z-index: 2000000000;" class="g-recaptcha-bubble-arrow"></div><div style="z-index: 2000000000; position: relative;"><iframe title="recaptcha challenge" src="https://www.google.com/recaptcha/api2/bframe?hl=en&amp;v=tftmXwdbgCvrXiHxr5HGbIaL&amp;k=6LdsxeMaAAAAAD2JY7XKqoLcwbx5xUzzpFbQt9mz&amp;cb=iic9prt7qzbq" style="width: 100%; height: 100%;" name="c-nupudynpldlr" scrolling="no" sandbox="allow-forms allow-popups allow-same-origin allow-scripts allow-top-navigation allow-modals allow-popups-to-escape-sandbox allow-storage-access-by-user-activation" frameborder="0"></iframe></div></div></body></html>
+<script src="https://www.google.com/recaptcha/api.js?onload=onloadcallback&amp;render=explicit" async=""></script><div style="background-color: rgb(255, 255, 255); border: 1px solid rgb(204, 204, 204); box-shadow: rgba(0, 0, 0, 0.2) 2px 2px 3px; position: absolute; transition: visibility 0s linear 0.3s, opacity 0.3s linear 0s; opacity: 0; visibility: hidden; z-index: 2000000000; left: 0px; top: -10000px;"><div style="width: 100%; height: 100%; position: fixed; top: 0px; left: 0px; z-index: 2000000000; background-color: rgb(255, 255, 255); opacity: 0.05;"></div><div style="border: 11px solid transparent; width: 0px; height: 0px; position: absolute; pointer-events: none; margin-top: -11px; z-index: 2000000000;" class="g-recaptcha-bubble-arrow"></div><div style="border: 10px solid transparent; width: 0px; height: 0px; position: absolute; pointer-events: none; margin-top: -10px; z-index: 2000000000;" class="g-recaptcha-bubble-arrow"></div><div style="z-index: 2000000000; position: relative;"><iframe title="recaptcha challenge" src="https://www.google.com/recaptcha/api2/bframe?hl=en&amp;v=tftmXwdbgCvrXiHxr5HGbIaL&amp;k=6LdsxeMaAAAAAD2JY7XKqoLcwbx5xUzzpFbQt9mz&amp;cb=x0lpqbt5px4n" style="width: 100%; height: 100%;" name="c-h8mo4ohwhj49" scrolling="no" sandbox="allow-forms allow-popups allow-same-origin allow-scripts allow-top-navigation allow-modals allow-popups-to-escape-sandbox allow-storage-access-by-user-activation" frameborder="0"></iframe></div></div></body></html>
